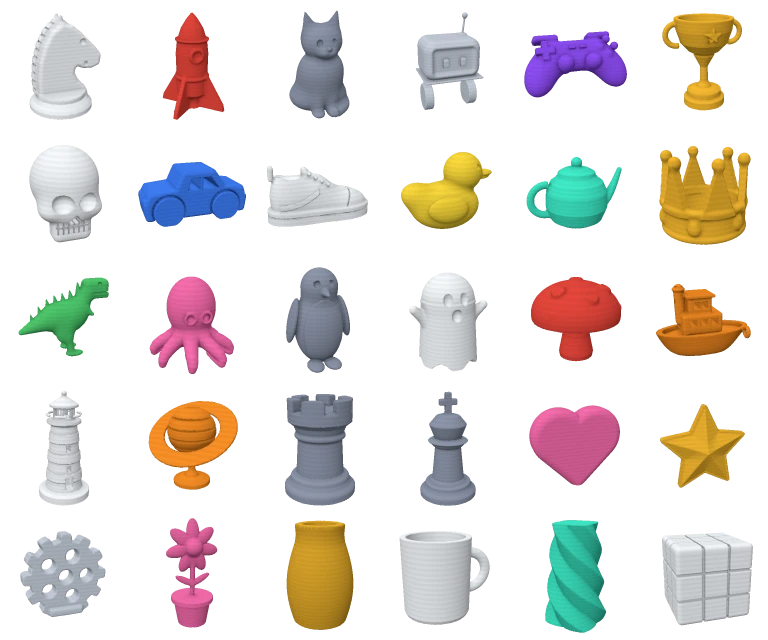
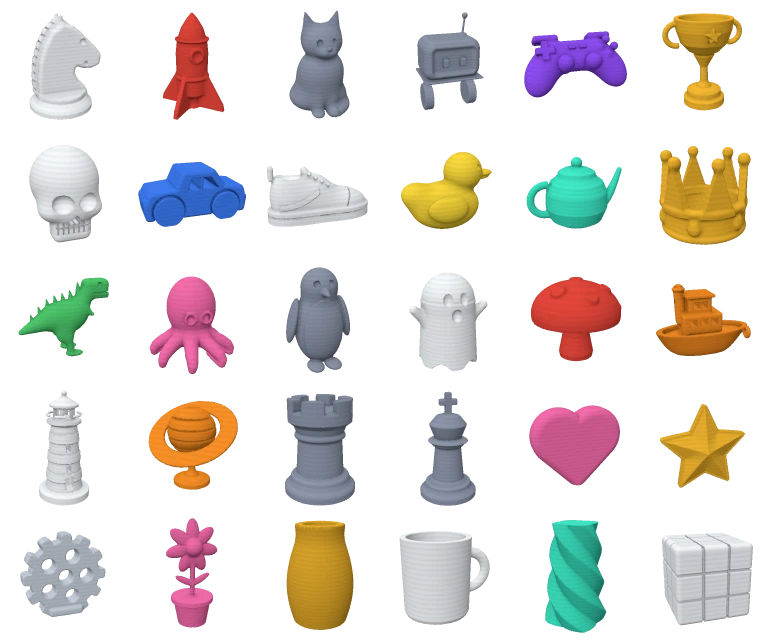
The mini BH-22 prints black by default, like the robot in the house, and its picture on the printer's screen is drawn again to match

Changed region(s): [[0.5312, 0.0312, 0.625, 0.1875]]

diff --git a/web/src/pure/catalog.js b/web/src/pure/catalog.js
@@ -4,7 +4,7 @@ export const MODELS = [
   { id: 'knight', name: 'chess knight', words: ['knight', 'horse', 'chess', 'chessknight', 'pony'], colour: 'white' },
   { id: 'rocket', name: 'rocket', words: ['rocket', 'spaceship', 'rocketship'], colour: 'red', sides: [3, 8, 4, 'fins'] },
   { id: 'pishi', name: 'little Pishi', words: ['pishi', 'cat', 'kitty', 'kitten', 'pishy'], colour: 'grey' },
-  { id: 'bh22', name: 'mini BH-22', words: ['bh22', 'bh', 'robot', 'droid', 'bot'], colour: 'silver' },
+  { id: 'bh22', name: 'mini BH-22', words: ['bh22', 'bh', 'robot', 'droid', 'bot'], colour: 'black' },
   { id: 'controller', name: 'game controller', words: ['controller', 'gamepad', 'joystick', 'pad', 'gamecontroller'], colour: 'purple' },
   { id: 'trophy', name: 'trophy', words: ['trophy', 'award', 'prize', 'winner', 'champion'], colour: 'gold' },
   { id: 'skull', name: 'skull', words: ['skull', 'skeleton', 'bones'], colour: 'white' },
